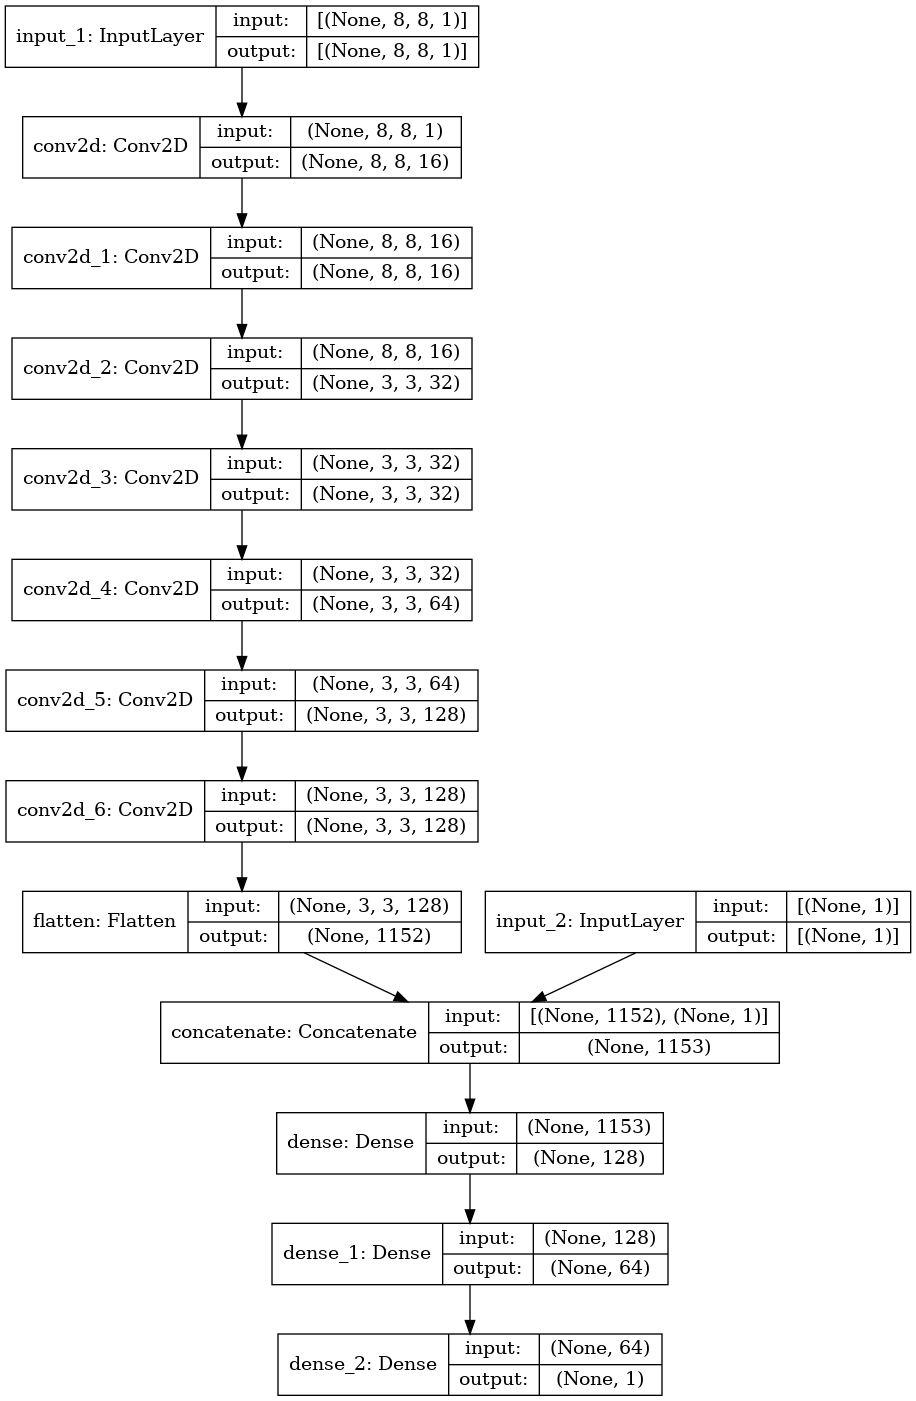
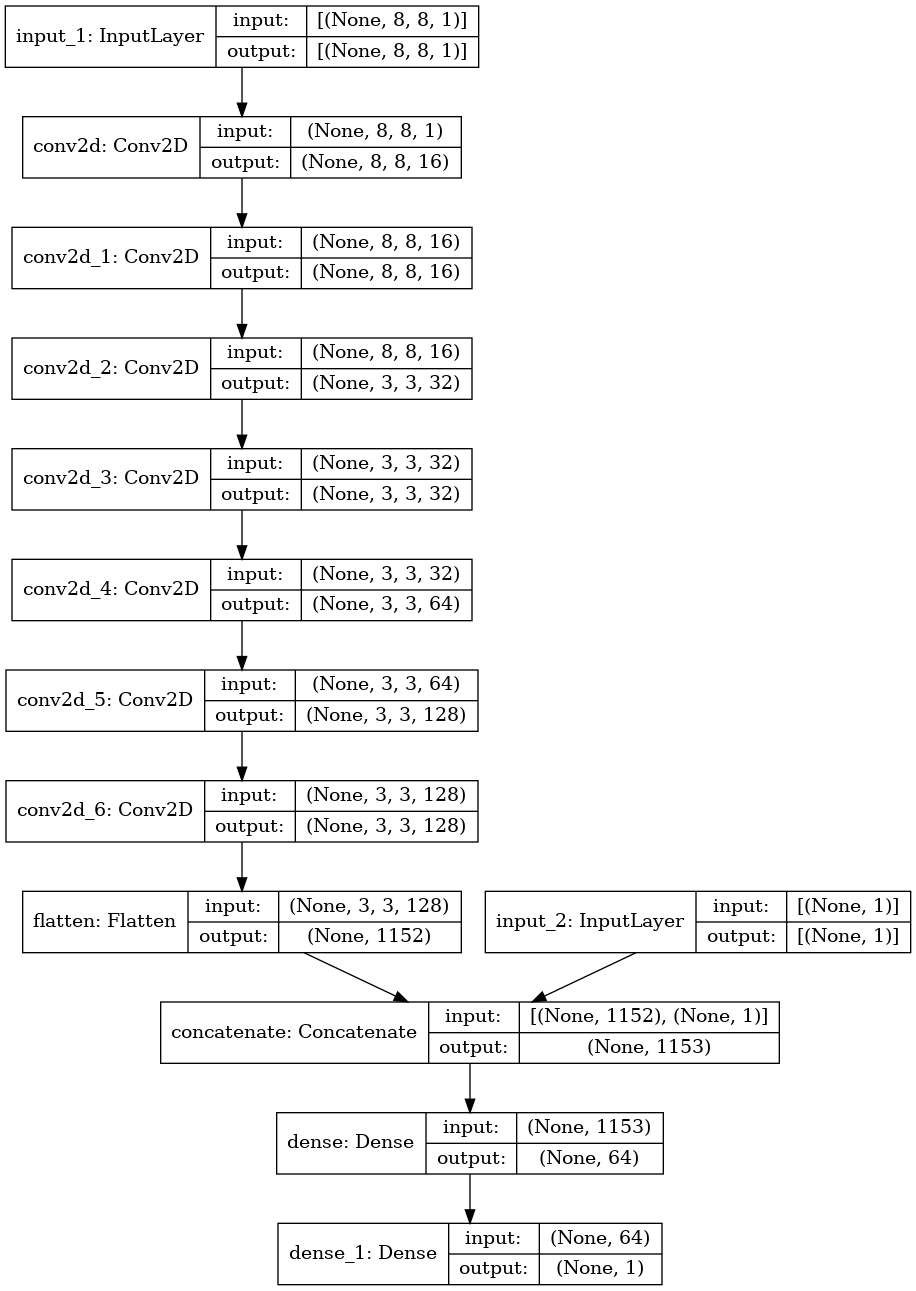
changed naming scheme to - and + for black and white

Changed region(s): [[0.0, 0.0, 1.0, 1.0]]

diff --git a/dataset.py b/dataset.py
@@ -5,7 +5,7 @@ import tensorflow as tf
 import numpy as np
 import math
 
-piece_char_2_int = {"R" : 21, "N": 22, "B": 23, "Q" : 24, "K" : 25, "P" : 26, "r" : 11, "n": 12, "b": 13, "q" : 14, "k" : 15, "p" : 16, "." : 0} # Uppercase is Black, lowercase white. Conversion to int since model can only take float input, not string
+piece_char_2_int = {"R" : -1, "N": -2, "B": -3, "Q" : -4, "K" : -5, "P" : -6, "r" : 1, "n": 2, "b": 3, "q" : 4, "k" : 5, "p" : 6, "." : 0} # Uppercase is Black, lowercase white. Conversion to int since model can only take float input, not string
 
 
 input_length = 92
@@ -14,39 +14,45 @@ positions = []
 evaluations = []
 colors = []
 with open("data/chessData.csv") as file:
-    file.readline()
-    line_number = 1
-    for line in file.readlines():
-        position_eval = line.split(",")
-        #numpy position_eval[1] = float(position_eval[1].replace("\n", ""))
-        normalized_evaluation = 1 if "#" in position_eval[1] else 2 * (1 / (1 + math.exp(-float(position_eval[1])/300)) - 0.5) # normalizes centipawn score with sigmoid function
-        position_eval[0] = position_eval[0] + (input_length - len(position_eval[0])) * " " # Add padding on FEN
-        position_array = np.asarray([i.split(" ") for i in str(chess.Board(position_eval[0])).split("\n")])
-        position_array_int = np.zeros((8, 8))
-        for i in range(0, len(position_array)):
-            for j in range(0, len(position_array[i])):
-                position_array_int[i][j] = piece_char_2_int[position_array[i][j]]
-        color = 1 if 'w' == position_eval[0].split()[1] else 0 # 1 if white, 0 if black to move
+    try:
+        file.readline()
+        line_number = 1
+        for line in file.readlines():
+            position_eval = line.split(",")
+            #numpy position_eval[1] = float(position_eval[1].replace("\n", ""))
+            normalized_evaluation = 1 if "#" in position_eval[1] else 2 * (1 / (1 + math.exp(-float(position_eval[1])/300)) - 0.5) # normalizes centipawn score with sigmoid function
+            position_eval[0] = position_eval[0] + (input_length - len(position_eval[0])) * " " # Add padding on FEN
+            position_array = np.asarray([i.split(" ") for i in str(chess.Board(position_eval[0])).split("\n")])
+            position_array_int = np.zeros((8, 8))
+            for i in range(0, len(position_array)):
+                for j in range(0, len(position_array[i])):
+                    position_array_int[i][j] = piece_char_2_int[position_array[i][j]]
+            color = 1 if 'w' == position_eval[0].split()[1] else 0 # 1 if white, 0 if black to move
 
-        print(line_number)
-        print(position_eval)
-        print(chess.Board(position_eval[0]).unicode())
-        print(chess.Board(position_eval[0]))
-        print(position_array_int)
-        print("CentiPawn Score:", position_eval[1])
-        print("Normalized Evaluation:", normalized_evaluation)
-        print("Color:", color)
+            print(line_number)
+            # print(position_eval)
+            # print(chess.Board(position_eval[0]).unicode())
+            # print(chess.Board(position_eval[0]))
+            # print(position_array_int)
+            # print("CentiPawn Score:", position_eval[1])
+            # print("Normalized Evaluation:", normalized_evaluation)
+            # print("Color:", color)
 
-        positions.append(position_array_int)
-        evaluations.append(normalized_evaluation)
-        colors.append(color)
+            positions.append(position_array_int)
+            evaluations.append(normalized_evaluation)
+            colors.append(color)
 
-        line_number += 1
-        if line_number == 12000000:
-            break
-np.save("evaluations", np.asarray(evaluations))
-np.save("positions", np.asarray(positions))
-np.save("colors", np.asarray(colors))
+            line_number += 1
+            if line_number == 12000000:
+                break
+    except:
+        print("\n\nStopping data conversion")
+
+if "yes" in input("\n\nWould you like to save (yes or no)"):
+    save_name = input("\nSave as:")
+    np.save("evaluations_" + save_name, np.asarray(evaluations))
+    np.save("positions_" + save_name, np.asarray(positions))
+    np.save("colors_" + save_name, np.asarray(colors))
 
 # Attempt at displaying board svg on web
 # board = chess.Board()

diff --git a/model.py b/model.py
@@ -19,17 +19,17 @@ input_color = tf.keras.Input(shape=(1,))
 combined_input = tf.keras.layers.Concatenate()([flattened_input_position, input_color])
 # first_conv = tf.keras.layers.Conv2D(64, (3, 3), input_shape=input_shape)(combined_input)
 # flatten = tf.keras.layers.Flatten(input_shape=input_shape)(first_conv)
-first_dense = tf.keras.layers.Dense(units=128, activation='relu')(combined_input)
-second_hidden_dense = tf.keras.layers.Dense(units=64, activation='relu')(first_dense)
+# first_dense = tf.keras.layers.Dense(units=128, activation='relu')(combined_input)
+second_hidden_dense = tf.keras.layers.Dense(units=64, activation='relu')(combined_input)
 # dropout = tf.keras.layers.Dropout(0.2)(second_hidden_dense)
-output_dense = tf.keras.layers.Dense(units=output_nodes, activation='sigmoid')(second_hidden_dense)
+output_dense = tf.keras.layers.Dense(units=output_nodes, activation='tanh')(second_hidden_dense)
 model = tf.keras.Model(inputs=[input_position, input_color], outputs=output_dense)
 model.summary()
 tf.keras.utils.plot_model(model, to_file="model.png", show_shapes=True)
-model.compile(optimizer='SGD', loss='mean_squared_error', metrics=['accuracy', 'MSE'])
-evaluations = np.load('evaluations.npy')
-positions = np.load('positions.npy')
-colors = np.load('colors.npy')
+model.compile(optimizer='Adam', loss='mean_squared_error', metrics=['accuracy', 'MSE'])
+evaluations = np.load('evaluations_200.npy')
+positions = np.load('positions_200.npy')
+colors = np.load('colors_200.npy')
 np.random.seed(0)
 np.random.shuffle(evaluations)
 np.random.seed(0)
